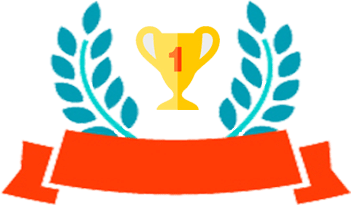
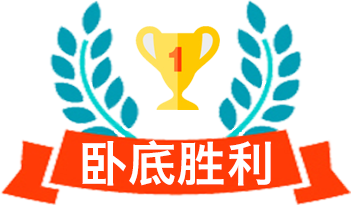
22/12

Changed region(s): [[0.2279, 0.6732, 0.7692, 0.9073]]

diff --git a/result.html b/result.html
@@ -1,0 +1,76 @@
+<!DOCTYPE html>
+<html>
+  <head>
+    <meta charset="utf-8">
+    <title>result</title>
+    <meta name="viewport" content="width=device-width maximum-scale=1.0">
+    <link rel="stylesheet" href="style-result.css">
+  </head>
+  <body>
+    <header>
+      <span class="lt-header"></span>
+      <span class="rt-header"></span>
+      <div class="text-header">
+      游戏结果
+      </div>
+    </header>
+    <main>
+      <span class=" icon"></span>
+      <div class="result">
+        <p class="orange">太棒了!你知道么？在捉鬼游戏中只有20%的卧底取得游戏最终的胜利哦！</p>
+        <table>
+          <tr>
+            <td colspan="6">本次游戏共计用时0小时25分钟 </td>
+          </tr>
+          <tr>
+            <td class="justify">杀手</td>
+            <td>0人</td>
+            <td class="justify">警察</td>
+            <td>1人</td>
+            <td class="justify">平民</td>
+            <td>6人</td>
+          </tr>
+          <tr>
+            <td class="justify">狙击手</td>
+            <td>0人</td>
+            <td class="justify">医生</td>
+            <td>1人</td>
+          </tr>
+          <tr>
+            <td colspan="6">卧底词汇：爱新觉罗</td>
+          </tr>
+          <tr>
+            <td colspan="6">水民词汇：努尔哈赤</td>
+          </tr>
+        </table>
+      </div>
+        <div class="days">
+          <p>第1天</p>
+          <span class="time">0小时07分</span>
+          <p>晚上：5号被杀手杀死，5号是水民</p>
+          <p>白天：8号被全民投票投死，8号是杀手</p>
+
+        </div>
+        <div class="days">
+          <p>第2天</p>
+          <span class="time">0小时07分</span>
+          <p>晚上：5号被杀手杀死，5号是水民</p>
+          <p>白天：8号被全民投票投死，8号是杀手</p>
+        </div>
+        <div class="days">
+          <p>第2天</p>
+          <span class="time">0小时07分</span>
+          <p>晚上：5号被杀手杀死，5号是水民</p>
+          <p>白天：8号被全民投票投死，8号是杀手</p>
+        </div>
+    </main>
+    <footer>
+      <div class="again">
+        再来一局
+      </div>
+      <div class="share">
+        上传并分享
+      </div>
+    </footer>
+  </body>
+</html>

diff --git a/style-result.css b/style-result.css
@@ -1,0 +1,108 @@
+body{
+  margin: 0;
+  background-color: #29bde0;
+}
+header{
+  width: 80%;
+  text-align: center;
+  position: fixed;
+  background-color: #29bde0;
+  border-bottom: 1px solid #42c5e4;
+  padding: 1rem 10% 0.5rem 10%;
+}
+.lt-header{
+  width: 2rem;
+  height: 2rem;
+  float: left;
+  background: url(images/result_03.png) no-repeat;
+  background-size: 2rem;
+}
+.rt-header{
+  width: 2rem;
+  height: 2rem;
+  float: right;
+  background: url(images/result_05.png) no-repeat;
+  background-size: 2rem;
+  /* display: inline-block; */
+}
+.text-header{
+  color: white;
+  /* height: 3rem; */
+  /* line-height: 3rem; */
+}
+main{
+  padding-top: 4rem;
+}
+span{
+  display: block;
+}
+.icon{
+  width:40%;
+  height:25vw;
+  background-image: url(images/result_10.png);
+  background-size:100%;
+  background-repeat: no-repeat;
+  margin:0rem 30%;
+}
+.result{
+  padding: 0.5rem 10%;
+}
+.days{
+  padding: 0.5rem 10%;
+  background-color: white;
+  margin: 0;
+  border-bottom: 1px solid #f6f6f6;
+}
+p{
+  margin: 0;
+  line-height: 2rem;
+  display: inline-block;
+  color: #bdbdbd;
+}
+.time{
+  position: relative;
+  float: right;
+  color: #dedede;
+}
+footer{
+  position: fixed;
+  bottom: 0;
+  height: 4rem;
+  width: 100%;
+  background-color: rgba(41, 189, 224, 0.6);
+}
+.again{
+  color: white;
+  background-color: #f66f6f;
+  width: 30%;
+  height: 3rem;
+  margin: 0.5rem 5% 0.5rem 15%;
+  border-radius: 5px;
+  text-align: center;
+  float: left;
+  line-height: 3rem;
+}
+.share{
+  color: white;
+  background-color: #f66f6f;
+  width: 30%;
+  height: 3rem;
+  margin: 0.5rem 14% 0.5rem 5%;
+  border-radius: 5px;
+  text-align: center;
+  line-height: 3rem;
+  float: right;
+}
+.orange{
+  color: #ffc865;
+  font-weight: bold;
+}
+table{
+  margin-top: 1rem;
+  width: 100%;
+  color: white;
+}
+.justify{
+  text-align: justify;
+  text-align-last:justify;
+}
